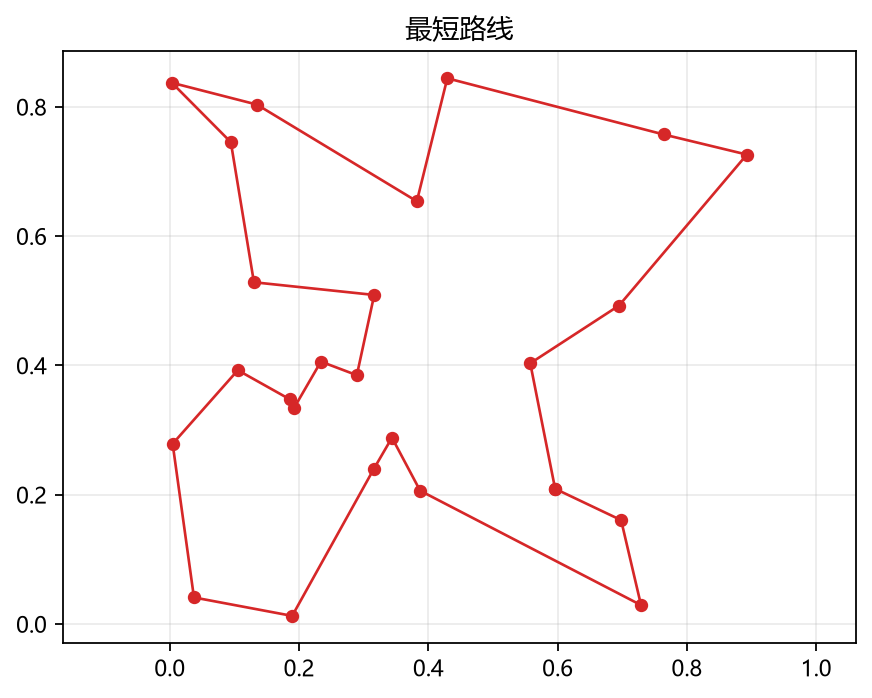
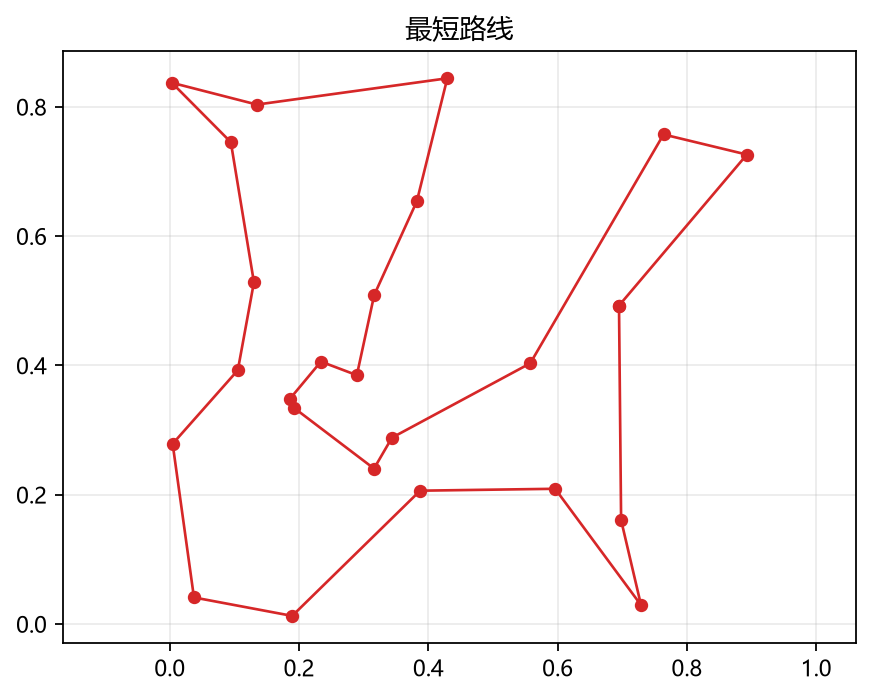
fix: 回到纯遗传算法，去掉 2-opt 那条默认路径
之前的默认是每个新路线先做一次 2-opt，那已经不是遗传算法了。现在默认就是纯遗传算法：
默认 80 条路线 x 300 代普通写法，跑 0.36 秒，比标准答案差 7.3%，10 个种子平均差 3.2%。

- 删掉 two_opt、--pure 开关和相关测试；2-opt 只在 README 末尾提一句，代码里没有。
- 默认参数回到 80 条 x 300 代。
- 两张图重新生成，收敛曲线是真的从 9.1 降到 4.578。

diff --git a/ga.py b/ga.py
@@ -1,23 +1,28 @@
-"""遗传算法：随机生成一堆路线，每代挑好的、交叉、偶尔倒转一段、淘汰差的。"""
+"""遗传算法求解 25 城 TSP。
+
+每一代：留下最好的几条 → 挑两条交叉 → 偶尔倒转一段 → 组成新一代。
+"""
 
 import random
 from dataclasses import dataclass
 from statistics import fmean
 
-from tsp import CITY_COUNT, route_length, two_opt
+from tsp import CITY_COUNT, route_length
+
+Route = tuple[int, ...]
 
 
 @dataclass
 class Result:
     """一次运行的结果。"""
 
-    route: tuple[int, ...]
+    route: Route
     distance: float
     best_history: list[float]
     mean_history: list[float]
 
 
-def _child(keep: tuple[int, ...], fill: tuple[int, ...], start: int, end: int) -> tuple[int, ...]:
+def _child(keep: Route, fill: Route, start: int, end: int) -> Route:
     """保留 keep 的一段，其余按 fill 的顺序补齐。"""
     child = [0] * CITY_COUNT
     child[start : end + 1] = keep[start : end + 1]
@@ -36,45 +41,47 @@ def _child(keep: tuple[int, ...], fill: tuple[int, ...], start: int, end: int) -
     return tuple(child)
 
 
+def ordered_crossover(first: Route, second: Route, rng: random.Random) -> tuple[Route, Route]:
+    """顺序交叉：两个父代各交出一段，子代仍是每个城市各出现一次。"""
+    start, end = sorted(rng.sample(range(CITY_COUNT), 2))
+    return _child(first, second, start, end), _child(second, first, start, end)
+
+
+def inversion_mutation(route: Route, rng: random.Random, probability: float) -> Route:
+    """按概率把路线里的一段顺序倒过来。"""
+    if rng.random() >= probability:
+        return route
+    start, end = sorted(rng.sample(range(CITY_COUNT), 2))
+    return route[:start] + route[start : end + 1][::-1] + route[end + 1 :]
+
+
+def random_route(rng: random.Random) -> Route:
+    route = list(range(CITY_COUNT))
+    rng.shuffle(route)
+    return tuple(route)
+
+
+def _evaluate(route: Route) -> tuple[Route, float]:
+    return route, route_length(route)
+
+
 def solve(
     *,
-    population_size: int = 30,
-    generations: int = 30,
+    population_size: int = 80,
+    generations: int = 300,
     mutation_probability: float = 0.25,
     tournament_size: int = 3,
     elite_count: int = 2,
     seed: int = 0,
-    polish: bool = True,
 ) -> Result:
-    """跑一遍遗传算法。polish=True 时每个新路线先做一次 2-opt 再比较。"""
+    """跑一遍遗传算法。"""
     rng = random.Random(seed)
-
-    def evaluate(route: tuple[int, ...]) -> tuple[tuple[int, ...], float]:
-        if polish:
-            route = two_opt(route)
-        return route, route_length(route)
-
-    def random_route() -> tuple[int, ...]:
-        route = list(range(CITY_COUNT))
-        rng.shuffle(route)
-        return tuple(route)
-
-    def crossover(first: tuple[int, ...], second: tuple[int, ...]) -> tuple[tuple[int, ...], ...]:
-        start, end = sorted(rng.sample(range(CITY_COUNT), 2))
-        return _child(first, second, start, end), _child(second, first, start, end)
-
-    def mutate(route: tuple[int, ...]) -> tuple[int, ...]:
-        if rng.random() >= mutation_probability:
-            return route
-        start, end = sorted(rng.sample(range(CITY_COUNT), 2))
-        return route[:start] + route[start : end + 1][::-1] + route[end + 1 :]
-
-    population = [evaluate(random_route()) for _ in range(population_size)]
+    population = [_evaluate(random_route(rng)) for _ in range(population_size)]
     best = min(population, key=lambda item: item[1])
     best_history: list[float] = []
     mean_history: list[float] = []
 
-    def pick_parent() -> tuple[int, ...]:
+    def pick_parent() -> Route:
         contestants = rng.sample(range(len(population)), tournament_size)
         return min((population[index] for index in contestants), key=lambda item: item[1])[0]
 
@@ -82,10 +89,12 @@ def solve(
         population.sort(key=lambda item: item[1])
         next_population = population[:elite_count]
         while len(next_population) < population_size:
-            for route in crossover(pick_parent(), pick_parent()):
+            for route in ordered_crossover(pick_parent(), pick_parent(), rng):
                 if len(next_population) == population_size:
                     break
-                next_population.append(evaluate(mutate(route)))
+                next_population.append(
+                    _evaluate(inversion_mutation(route, rng, mutation_probability))
+                )
         population = next_population
 
         current = min(population, key=lambda item: item[1])

diff --git a/tests/test_ga.py b/tests/test_ga.py
@@ -1,12 +1,39 @@
+import random
+
 import pytest
 
-from ga import solve
+from ga import inversion_mutation, ordered_crossover, random_route, solve
 from tsp import CITY_COUNT, KNOWN_OPTIMAL_LENGTH
 
+CITIES = list(range(CITY_COUNT))
 
-@pytest.mark.parametrize("seed", range(5))
-def test_default_run_reaches_the_known_optimum(seed: int) -> None:
-    assert solve(seed=seed).distance == pytest.approx(KNOWN_OPTIMAL_LENGTH, abs=1e-12)
+
+def test_random_route_is_a_permutation() -> None:
+    assert sorted(random_route(random.Random(0))) == CITIES
+
+
+@pytest.mark.parametrize("seed", range(20))
+def test_crossover_children_are_permutations(seed: int) -> None:
+    rng = random.Random(seed)
+    children = ordered_crossover(random_route(rng), random_route(rng), rng)
+
+    assert all(sorted(child) == CITIES for child in children)
+
+
+def test_mutation_reverses_one_segment() -> None:
+    class FixedRandom:
+        @staticmethod
+        def random() -> float:
+            return 0.0
+
+        @staticmethod
+        def sample(_population: range, _count: int) -> list[int]:
+            return [1, 4]
+
+    route = tuple(range(6))
+
+    assert inversion_mutation(route, FixedRandom(), 1.0) == (0, 4, 3, 2, 1, 5)  # type: ignore[arg-type]
+    assert inversion_mutation(route, FixedRandom(), 0.0) == route  # type: ignore[arg-type]
 
 
 def test_same_seed_gives_the_same_result() -> None:
@@ -14,9 +41,9 @@ def test_same_seed_gives_the_same_result() -> None:
 
 
 def test_result_holds_a_permutation_and_the_two_histories() -> None:
-    result = solve(population_size=10, generations=5)
+    result = solve(population_size=20, generations=5)
 
-    assert sorted(result.route) == list(range(CITY_COUNT))
+    assert sorted(result.route) == CITIES
     assert len(result.best_history) == 5
     assert len(result.mean_history) == 5
     assert all(
@@ -26,7 +53,7 @@ def test_result_holds_a_permutation_and_the_two_histories() -> None:
     assert result.best_history[-1] == result.distance
 
 
-def test_pure_genetic_algorithm_stays_behind_the_polished_one() -> None:
-    pure = solve(population_size=80, generations=300, seed=0, polish=False)
+def test_default_run_lands_close_to_the_known_optimum() -> None:
+    gap = (solve(seed=0).distance / KNOWN_OPTIMAL_LENGTH - 1) * 100
 
-    assert pure.distance > solve(seed=0).distance
+    assert 0 <= gap < 10

diff --git a/main.py b/main.py
@@ -24,13 +24,8 @@ def _row(label: str, value: str) -> str:
 def build_parser() -> argparse.ArgumentParser:
     parser = argparse.ArgumentParser(description="用遗传算法求 25 城 TSP 的最短路线")
     parser.add_argument("--seed", type=int, default=0, help="随机种子")
-    parser.add_argument(
-        "--population-size", type=int, default=None, help="每代多少条路线（默认 30，--pure 时 80）"
-    )
-    parser.add_argument(
-        "--generations", type=int, default=None, help="迭代多少代（默认 30，--pure 时 300）"
-    )
-    parser.add_argument("--pure", action="store_true", help="关掉 2-opt，跑纯遗传算法")
+    parser.add_argument("--population-size", type=int, default=80, help="每代多少条路线")
+    parser.add_argument("--generations", type=int, default=300, help="迭代多少代")
     parser.add_argument("--no-plot", action="store_true", help="不画图")
     parser.add_argument("--show", action="store_true", help="存完图打开窗口")
     return parser
@@ -39,24 +34,16 @@ def build_parser() -> argparse.ArgumentParser:
 def main(argv: Sequence[str] | None = None) -> int:
     parser = build_parser()
     args = parser.parse_args(argv)
-    # 纯遗传算法收敛慢，给足代数才看得出它差在哪。
-    population_size = 80 if args.pure else 30
-    generations = 300 if args.pure else 30
-    if args.population_size is not None:
-        population_size = args.population_size
-    if args.generations is not None:
-        generations = args.generations
-    if population_size < 2:
+    if args.population_size < 2:
         parser.error("每代至少要 2 条路线")
-    if generations < 1:
+    if args.generations < 1:
         parser.error("至少要迭代 1 代")
 
     started = time.perf_counter()
     result = solve(
-        population_size=population_size,
-        generations=generations,
+        population_size=args.population_size,
+        generations=args.generations,
         seed=args.seed,
-        polish=not args.pure,
     )
     elapsed = time.perf_counter() - started
 

diff --git a/tsp.py b/tsp.py
@@ -1,4 +1,4 @@
-"""25 个城市、城市间距离，以及把路线理顺的 2-opt。"""
+"""25 个城市、城市间距离。"""
 
 from math import dist
 
@@ -73,33 +73,3 @@ def route_length(route: tuple[int, ...]) -> float:
         total += DISTANCES[previous][city]
         previous = city
     return total
-
-
-def two_opt(route: tuple[int, ...]) -> tuple[int, ...]:
-    """把交叉的两条边换开，直到换不动为止。"""
-    best = list(route)
-    count = len(best)
-    improved = True
-    while improved:
-        improved = False
-        for head in range(count - 1):
-            first, second = best[head], best[head + 1]
-            distances = DISTANCES[first]
-            base = distances[second]
-            for tail in range(head + 2, count):
-                if head == 0 and tail == count - 1:
-                    continue
-                tail_city = best[tail]
-                closing_city = best[(tail + 1) % count]
-                gain = (
-                    distances[tail_city]
-                    + DISTANCES[second][closing_city]
-                    - base
-                    - DISTANCES[tail_city][closing_city]
-                )
-                if gain < -1e-12:
-                    best[head + 1 : tail + 1] = reversed(best[head + 1 : tail + 1])
-                    second = best[head + 1]
-                    base = distances[second]
-                    improved = True
-    return tuple(best)

diff --git a/tests/test_tsp.py b/tests/test_tsp.py
@@ -1,5 +1,3 @@
-import random
-
 import pytest
 
 from tsp import (
@@ -8,13 +6,13 @@ from tsp import (
     KNOWN_OPTIMAL_LENGTH,
     KNOWN_OPTIMAL_TOUR,
     route_length,
-    two_opt,
 )
 
 CITIES = list(range(CITY_COUNT))
 
 
-def test_known_tour_has_the_verified_length() -> None:
+def test_known_optimal_tour_has_the_verified_length() -> None:
+    assert sorted(KNOWN_OPTIMAL_TOUR) == CITIES
     assert route_length(KNOWN_OPTIMAL_TOUR) == pytest.approx(KNOWN_OPTIMAL_LENGTH, abs=1e-12)
 
 
@@ -23,18 +21,3 @@ def test_route_length_closes_the_cycle() -> None:
     expected = DISTANCES[0][1] + DISTANCES[1][2] + DISTANCES[2][0]
 
     assert route_length(route) == pytest.approx(expected)
-
-
-@pytest.mark.parametrize("seed", range(10))
-def test_two_opt_never_makes_a_route_worse(seed: int) -> None:
-    route = tuple(random.Random(seed).sample(CITIES, CITY_COUNT))
-    improved = two_opt(route)
-
-    assert sorted(improved) == CITIES
-    assert route_length(improved) <= route_length(route)
-
-
-def test_two_opt_leaves_the_optimal_tour_alone() -> None:
-    assert route_length(two_opt(KNOWN_OPTIMAL_TOUR)) == pytest.approx(
-        KNOWN_OPTIMAL_LENGTH, abs=1e-12
-    )

diff --git a/tests/test_main.py b/tests/test_main.py
@@ -27,8 +27,8 @@ def test_no_plot_skips_the_images(capsys: pytest.CaptureFixture[str]) -> None:
     assert "路线图" not in capsys.readouterr().out
 
 
-def test_pure_mode_runs(capsys: pytest.CaptureFixture[str]) -> None:
-    assert main(["--no-plot", "--pure", "--generations", "5"]) == 0
+def test_custom_size_runs(capsys: pytest.CaptureFixture[str]) -> None:
+    assert main(["--no-plot", "--population-size", "20", "--generations", "20"]) == 0
 
     assert "最优差距" in capsys.readouterr().out
 

diff --git a/README.md b/README.md
@@ -1,9 +1,14 @@
-# 25 城旅行商问题
+# 遗传算法求解 25 城 TSP
 
 25 个城市，要找到一条把每个城市各走一遍、最后回到起点、总距离最短的路线。
 
-程序用遗传算法来试：先随机生成一堆路线，每一代挑出好的、让它们交叉、偶尔把一段顺序倒过来，
-再把差的淘汰，反复 30 代。
+遗传算法不看地图、不算几何，只是一代一代地随机试：
+
+1. 随机生成 80 条路线
+2. 留下最短的几条
+3. 挑两条路线各取一段，拼成新路线（交叉）
+4. 偶尔把新路线里的一段顺序倒过来（变异）
+5. 差的淘汰，回到第 2 步，重复 300 代
 
 ## 怎么用
 
@@ -13,19 +18,20 @@
 python main.py
 ```
 
-终端会打印：
+终端打印：
 
 ```
-最优路线    1,14,6,...,4,23
-最优距离    4.267835351807
+最优路线    6,23,4,...,13,5
+最优距离    4.578091652396
 已知最优    4.267835351807
-最优差距    0.000000%
-耗时        0.089 秒
+最优差距    7.269641%
+耗时        0.361 秒
 路线图      ...\output\route.png
 适应度图    ...\output\fitness.png
 ```
 
-`已知最优` 是用整数规划算出来的标准答案。
+`已知最优` 是用整数规划算出来的标准答案。默认这次差 7.3%，换 10 个种子平均差 3.2%，
+偶尔能正好撞上标准答案。
 
 同时在 `output/` 里生成两张图：
 
@@ -33,13 +39,13 @@ python main.py
 
 ![每一代的最短距离](output/fitness.png)
 
-## 想看纯遗传算法差多少
+## 参数
 
 ```
-python main.py --pure
+python main.py --seed 3 --population-size 100 --generations 500
 ```
 
-`--pure` 关掉 2-opt（每代顺手把路线里交叉的两条边换开这一步）。不做这一步，纯遗传算法
-就到不了标准答案：同一次运行只能到 4.578，差 7%。
+常用的就 `--seed`、`--population-size`、`--generations`，其余看 `python main.py --help`。
 
-其他参数看 `python main.py --help`。
+想让结果更接近标准答案，可以在每代之后加一步局部搜索，比如 2-opt：把路线里交叉的两条边换开，
+直到没有交叉为止。那样就不算纯遗传算法了，这个库没有加。
